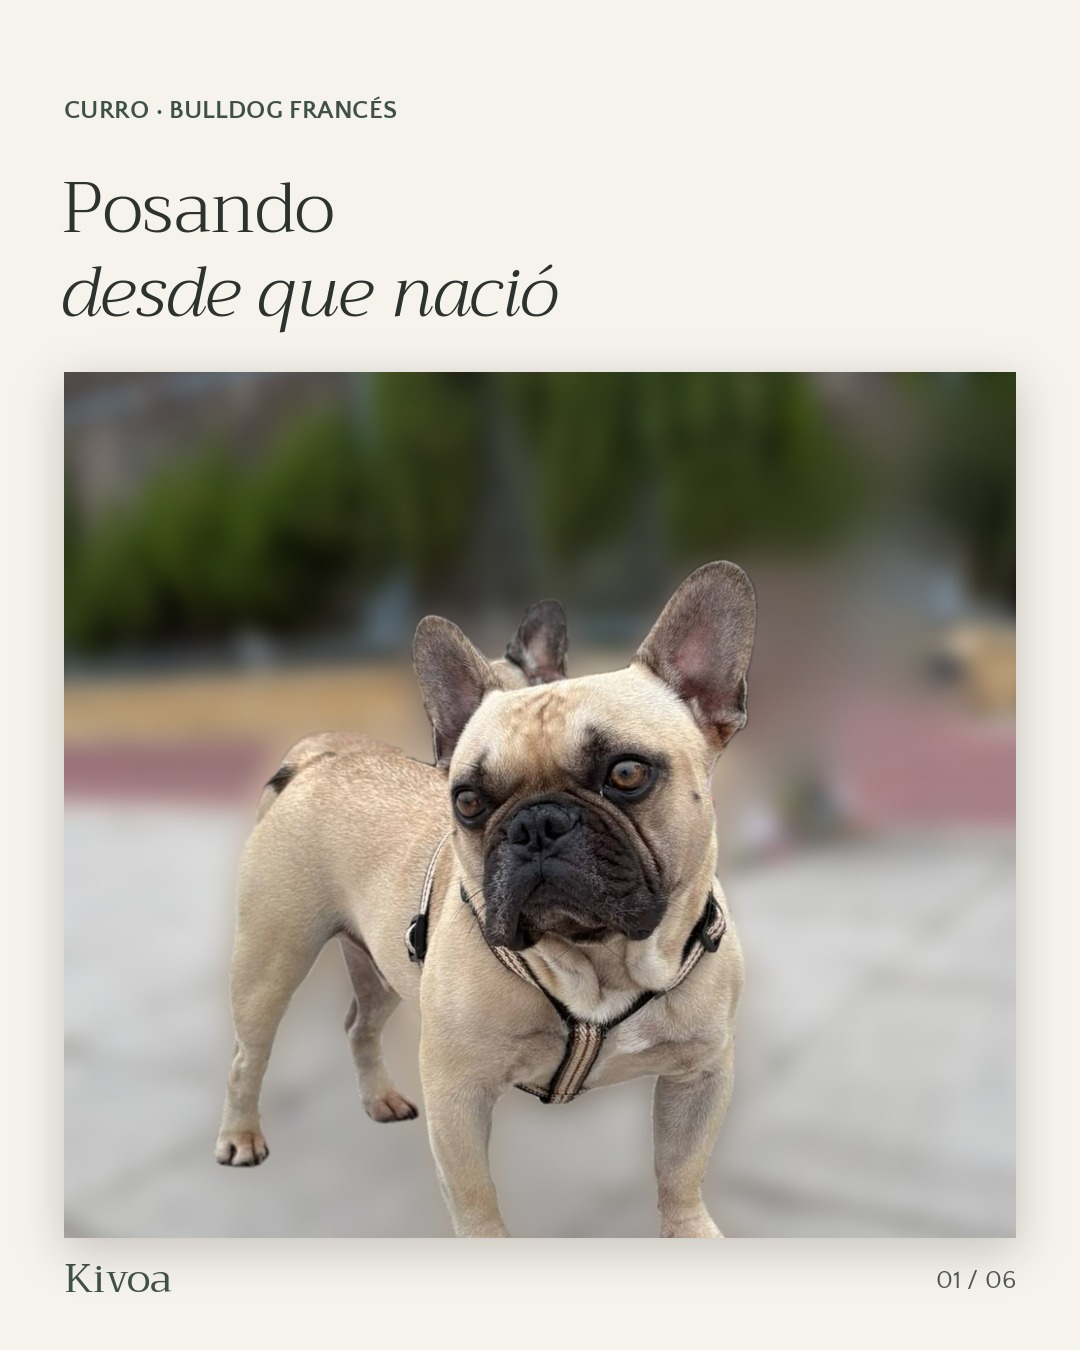
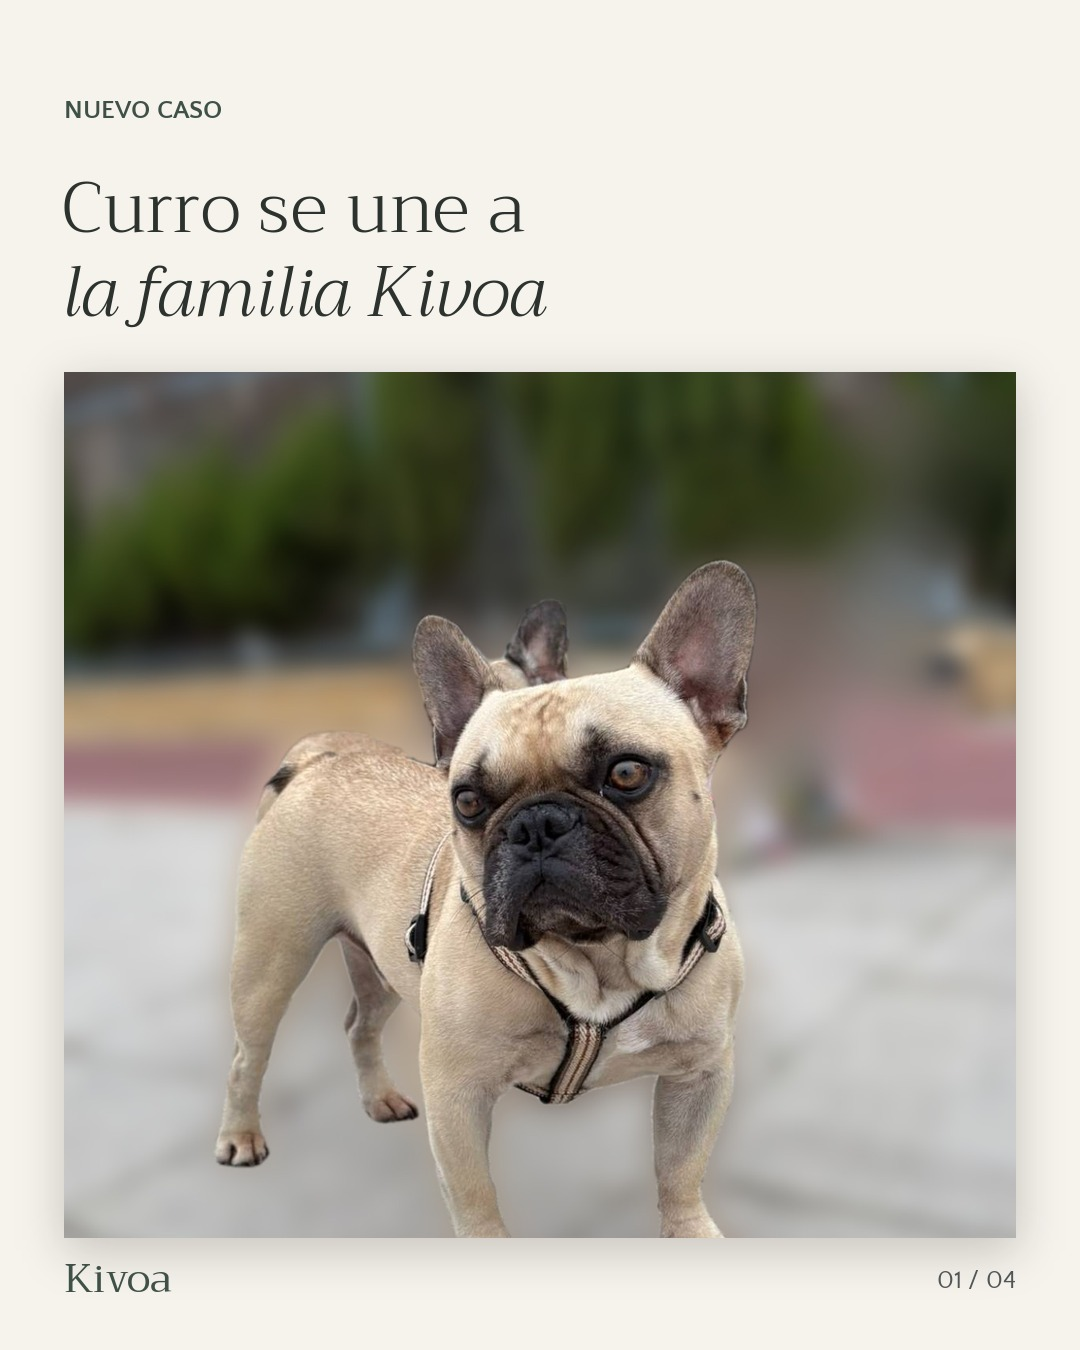
Publicación de Curro simplificada: nuevo caso, sus fotos, su resultado y Kivoa
Claude-Session: https://claude.ai/code/session_01EXxT3oYALMgVYQXs29BEaV

Changed region(s): [[0.0611, 0.1244, 0.5194, 0.2489], [0.0611, 0.0622, 0.3667, 0.0933], [0.8861, 0.9333, 0.9472, 0.9644]]

diff --git a/generador/redes/publicaciones.py b/generador/redes/publicaciones.py
@@ -828,7 +828,7 @@ def publicacion_7():
         print(out)
 
 
-# ---------- Publicación #8 · Curro (humor: posando desde que nació) ----------
+# ---------- Publicación #8 · Curro (sencilla: nuevo caso → sus fotos → su resultado → Kivoa) ----------
 
 def publicacion_8():
     C = lambda f: abrir(A('casos', 'curro', f))
@@ -836,32 +836,28 @@ def publicacion_8():
     ret = C('retrato-clasico-es.jpg')
     out = A('redes', 'publicaciones', '08-curro', 'es')
     os.makedirs(out, exist_ok=True)
-    total, diapos = 6, []
+    for f in os.listdir(out):
+        os.remove(os.path.join(out, f))
+    total, diapos = 4, []
     x0, y0, x1, y1 = FOTO
 
-    # 1 · Portada
+    # 1 · Nuevo caso
     im = lienzo()
-    cabecera(im, 'Curro · bulldog francés', 'Posando\ndesde que nació', 1)
+    cabecera(im, 'Nuevo caso', 'Curro se une a\nla familia Kivoa', 1)
     foto_en_zona(im, frente, cx=.53, cy=.42, zoom=1.25)
     diapos.append(im)
 
-    # 2 · El chiste: ojos cerrados
+    # 2 · Sus fotos
     im = lienzo()
-    cabecera(im, 'Rasgo n.º 4', 'Dormilón\nprofesional', 1)
-    foto_en_zona(im, dormido, cx=.55, cy=.42, zoom=1.3)
-    diapos.append(im)
-
-    # 3 · Sus fotos
-    im = lienzo()
-    cabecera(im, 'Sus fotos', 'Directas del móvil\nde su familia', 1)
+    cabecera(im, 'Sus fotos', 'Estas son las\nfotos de Curro', 1)
     for foto, c, a, foco in zip([frente, perfil, hermano, dormido], [(300, 610), (780, 590), (310, 985), (780, 965)],
                                 [-5, 4, 3, -4], [(.53, .4, 1.7), (.42, .45, 1.45), (.62, .45, 1.15), (.56, .38, 1.9)]):
         polaroid(im, foto, c, 380, a, foco=foco)
     diapos.append(im)
 
-    # 4 · El resultado
+    # 3 · Su resultado
     im = lienzo()
-    cabecera(im, 'El resultado', 'Su retrato,\ncon su carácter', 1)
+    cabecera(im, 'Su resultado', 'Su retrato\npersonalizado', 1)
     ImageDraw.Draw(im).rectangle(FOTO, fill=ARENA)
     h = y1 - y0 - 70
     w = int(ret.width * h / ret.height)
@@ -871,24 +867,19 @@ def publicacion_8():
     im.paste(ret.resize((w, h), Image.LANCZOS), caja[:2])
     diapos.append(im)
 
-    # 5 · Detalle: rasgos y frase
-    im = lienzo()
-    cabecera(im, 'Los detalles', 'Seis rasgos…\ny ninguno es mentira', 1)
-    foto_en_zona(im, ret, cx=.5, cy=.78, zoom=1.0)
-    diapos.append(im)
-
-    # 6 · Llamada
+    # 4 · Kivoa
     im = lienzo()
     d = ImageDraw.Draw(im)
-    y = texto_centrado(d, ['Un cuadro personalizado,', 'no uno cualquiera'], 250, TIT(72), TINTA, 92)
+    d.text((W / 2, 420), 'Kivoa', font=MARCA(110), fill=SALVIA, anchor='ms')
+    y = texto_centrado(d, ['Un cuadro personalizado,', 'no uno cualquiera'], 560, TIT(72), TINTA, 92)
     d.line((W / 2 - 60, y - 30, W / 2 + 60, y - 30), fill=ROSA, width=4)
-    y += 50
-    for b in ['Mándanos sus fotos del móvil', 'Vista previa en 48 horas', 'No te cobramos hasta que la apruebes']:
+    y += 60
+    for b in ['Mándanos sus fotos del móvil', 'Vista previa en 48 horas', 'No te cobramos hasta que la apruebes',
+              'Enmarcado y listo para tu casa']:
         check(d, 150, y - 12)
         d.text((196, y), b, font=TXT(40), fill=TINTA, anchor='ls')
         y += 84
-    polaroid(im, ret, (W / 2, 950), 240, -4, foco=(.5, .35))
-    boton(ImageDraw.Draw(im), W / 2, 1185, 'Pide el tuyo · enlace en la bio')
+    boton(d, W / 2, y + 90, '¿El siguiente es el tuyo? · enlace en la bio')
     diapos.append(im)
 
     for i, im in enumerate(diapos, 1):
